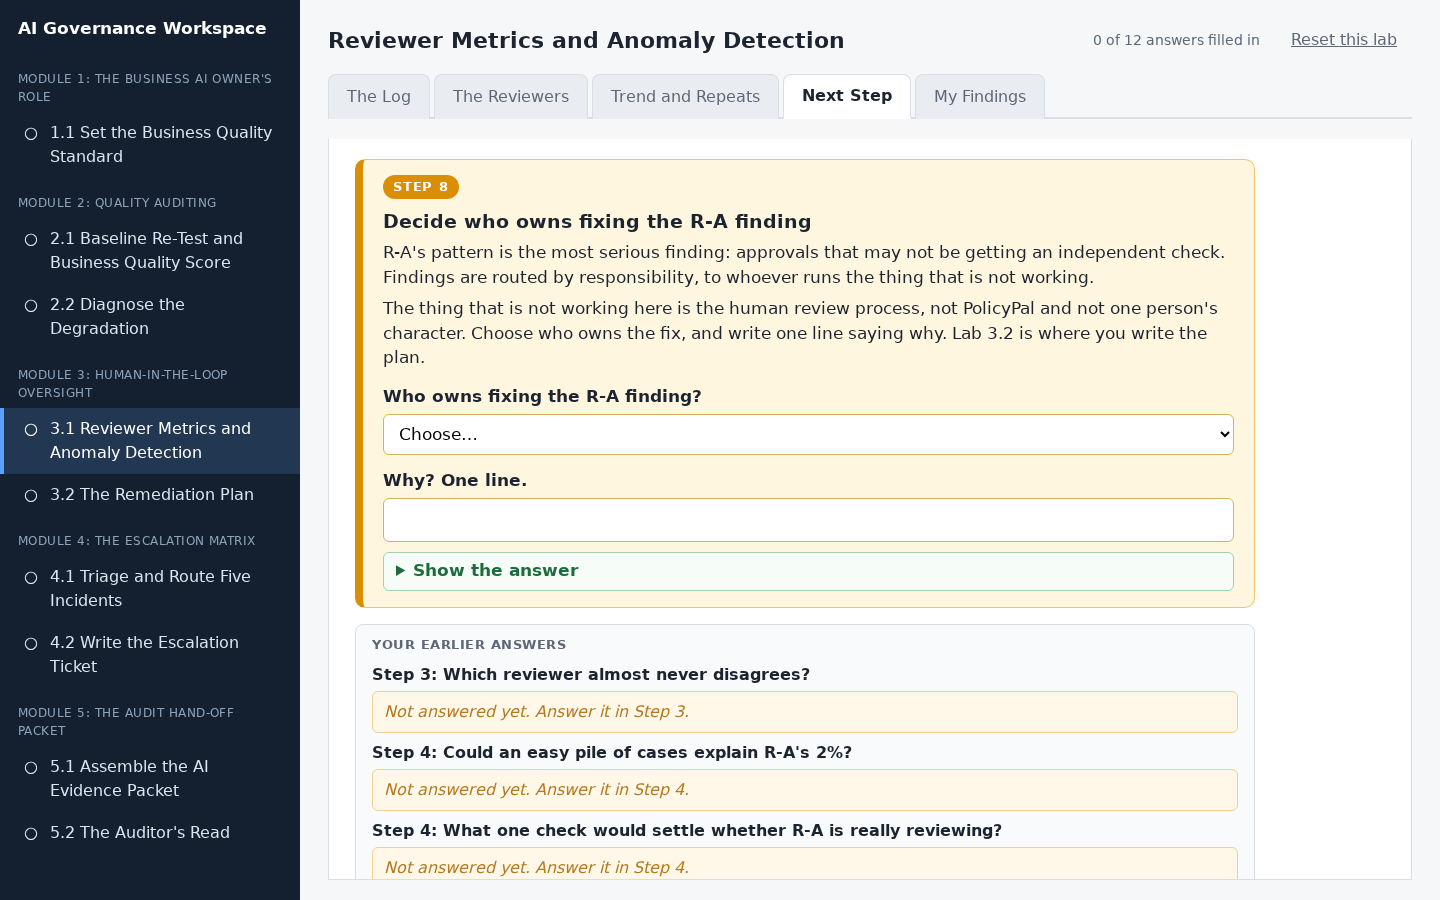
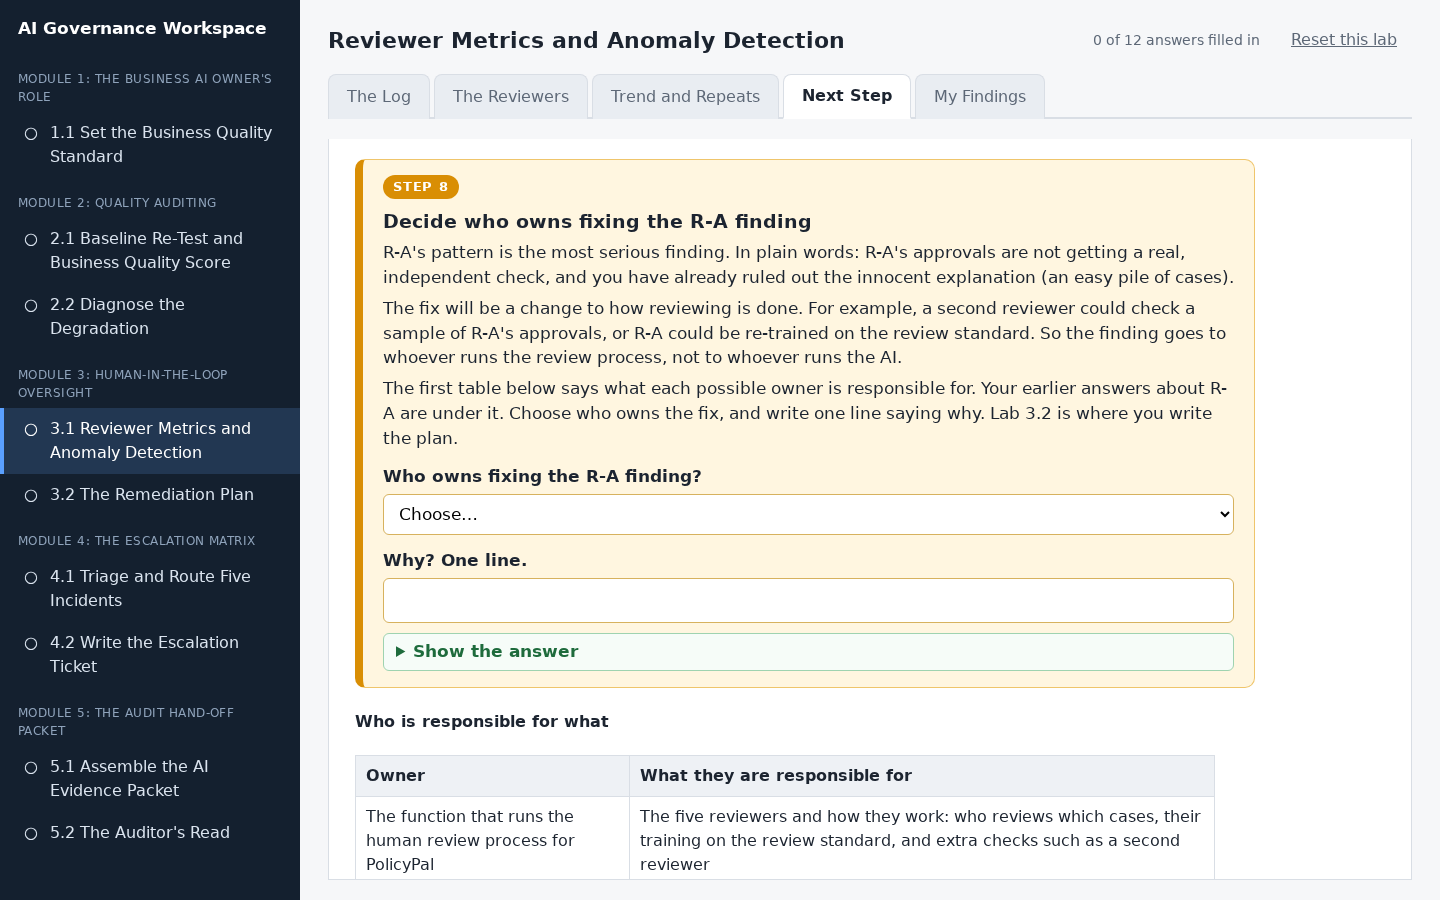
Lab 3.1: clearer repeat-case step and owner context; no wrapped short cells
- Step 7 shows one row per repeated case, with the first and second look
  side by side, explains what the a/b case numbers mean, and tells
  students they can click a column heading to sort
- Step 8 explains the finding in plain words and adds a "who is
  responsible for what" table for the owners to choose from
- Table cells of 12 characters or fewer (case numbers, dates,
  decisions) no longer wrap onto two lines

Changed region(s): [[0.2188, 0.2489, 0.875, 0.9956]]

diff --git a/static/style.css b/static/style.css
@@ -84,6 +84,7 @@ table.data thead tr.filters th { top: 34px; padding: 4px 6px; background: #f6f8f
 table.data thead tr.filters input, table.data thead tr.filters select { width: 100%; min-width: 60px; font: inherit; font-size: 13px; padding: 3px 5px; border: 1px solid #b9c2ce; border-radius: 4px; }
 table.data tbody tr:nth-child(even) { background: #fafbfc; }
 table.data td.num { text-align: right; font-variant-numeric: tabular-nums; }
+table.data td.nowrap { white-space: nowrap; }
 table.data td select { font: inherit; padding: 4px 6px; border: 1px solid #b9c2ce; border-radius: 4px; max-width: 100%; }
 table.data td select.unset { border-color: var(--warn); background: #fff8e8; }
 table.data tr.total td { font-weight: 700; background: #eef1f5; }

diff --git a/static/app.js b/static/app.js
@@ -430,7 +430,9 @@ function renderTable(tab) {
       s.addEventListener("change", () => { queueSave(key, s.value, redraw); mark(); if (card) card.update(); });
       return h("td", {}, s);
     }
-    return h("td", { class: isNum(c) ? "num" : "" }, r[c]);
+    // Short values (case numbers, dates, decisions) never wrap onto two lines.
+    const cls = [isNum(c) && "num", String(r[c]).length <= 12 && "nowrap"].filter(Boolean).join(" ");
+    return h("td", { class: cls }, r[c]);
   }
 
   function groupView(rows) {
